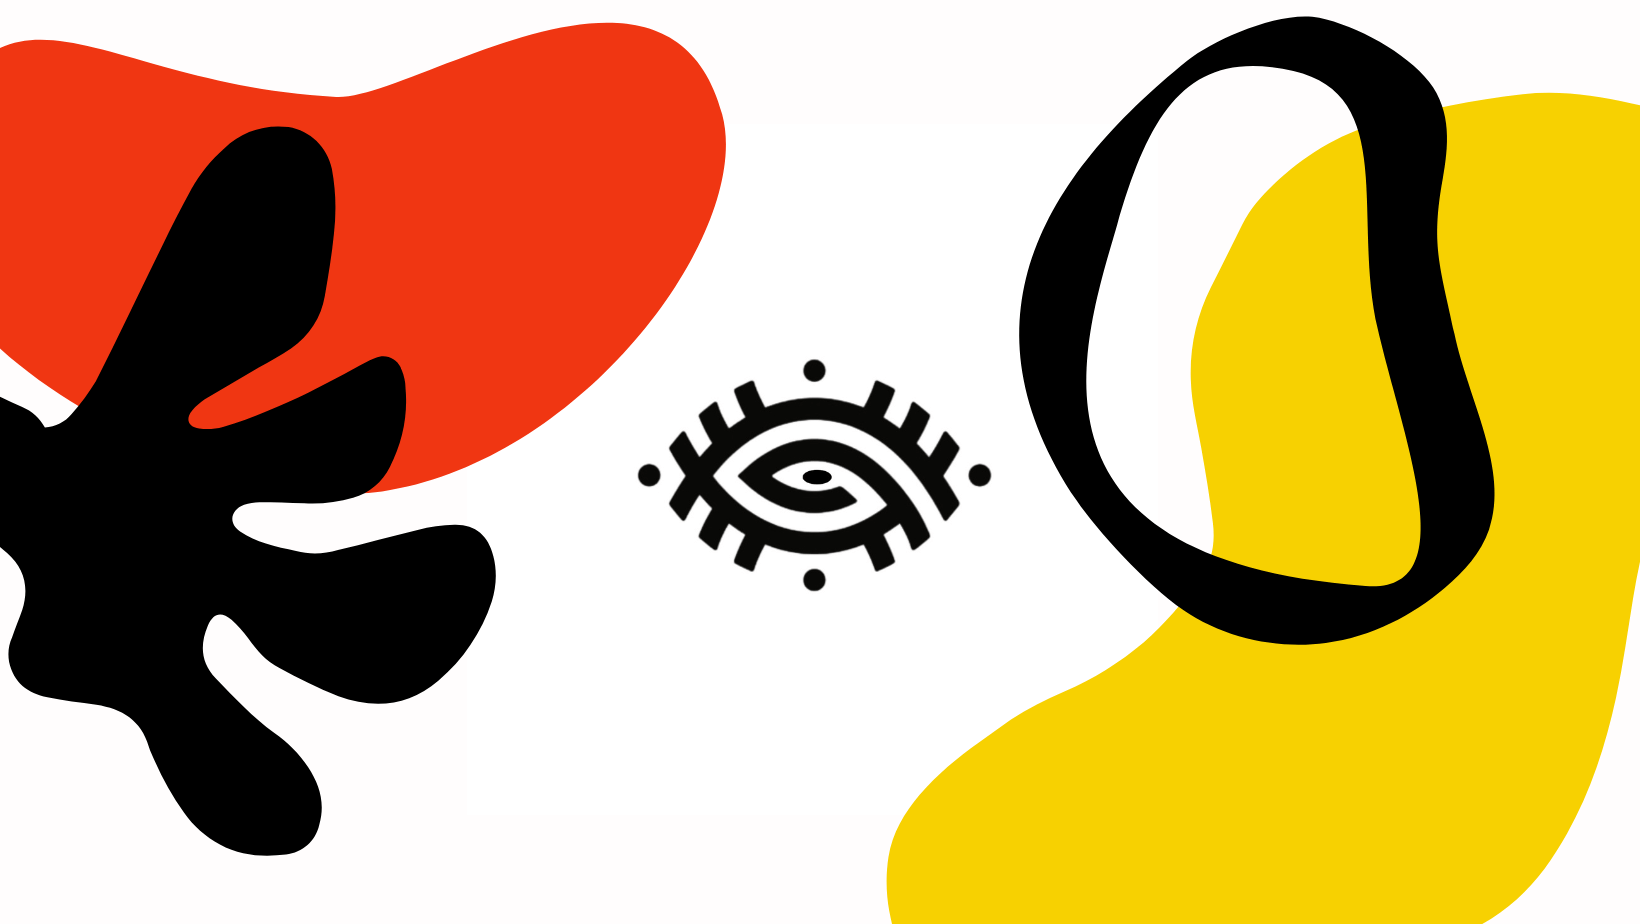
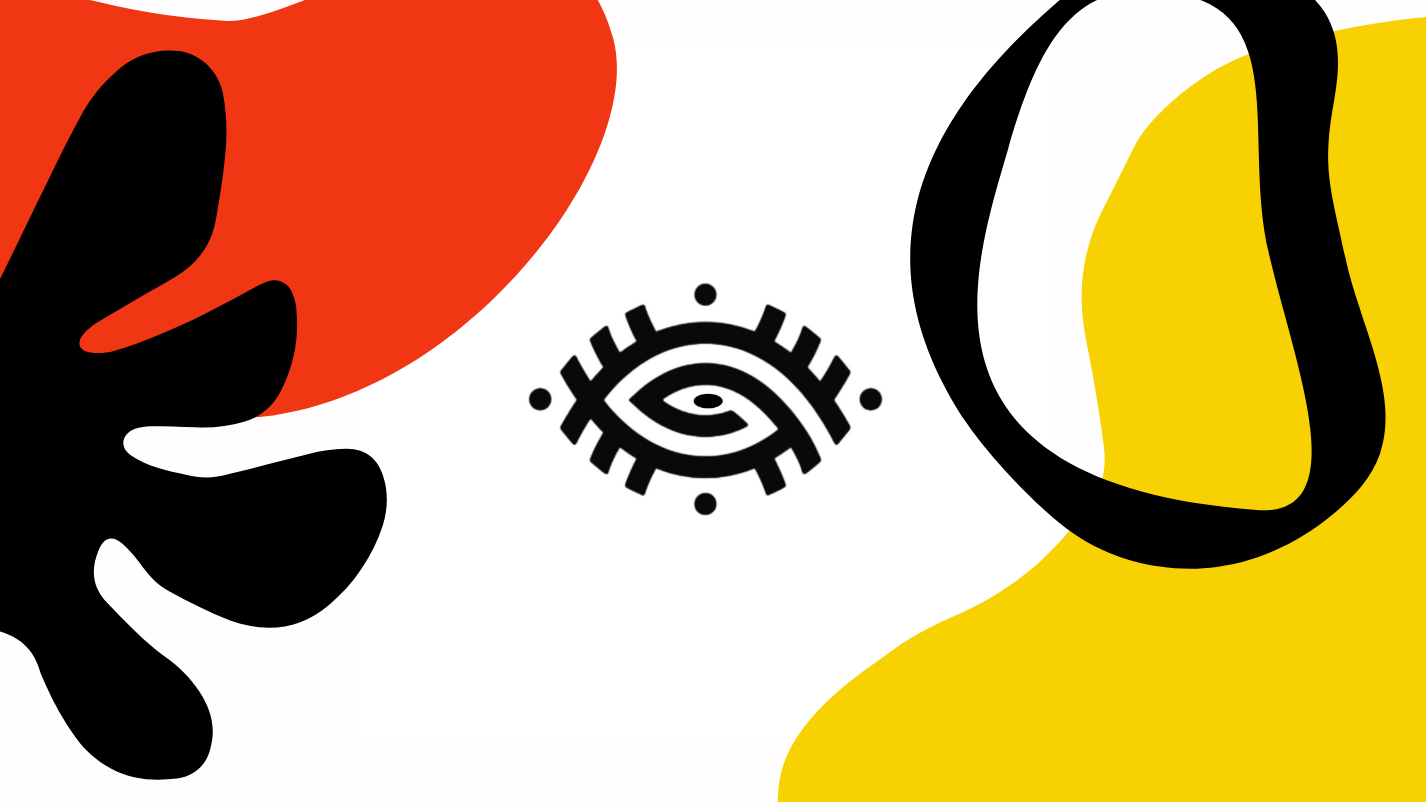
chore: updated image of footer

diff --git a/src/components/Newsletter/footer.tsx b/src/components/Newsletter/footer.tsx
@@ -123,7 +123,7 @@ export function NewsletterFooter() {
                                 alt={'ORUN Values'}
                                 fill
                                 sizes="100vw (max-width: 768px) 50vw"
-                                style={{ objectFit: 'cover', objectPosition: 'center' }}
+                                style={{ objectFit: 'cover' }}
                             />
                         </div>
                     </div>
